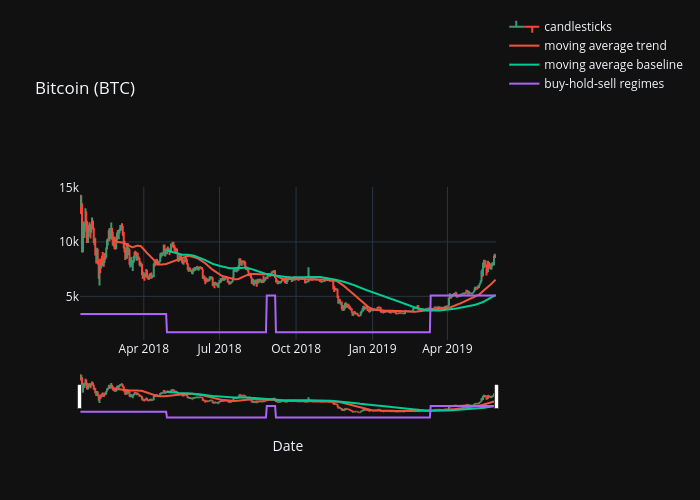
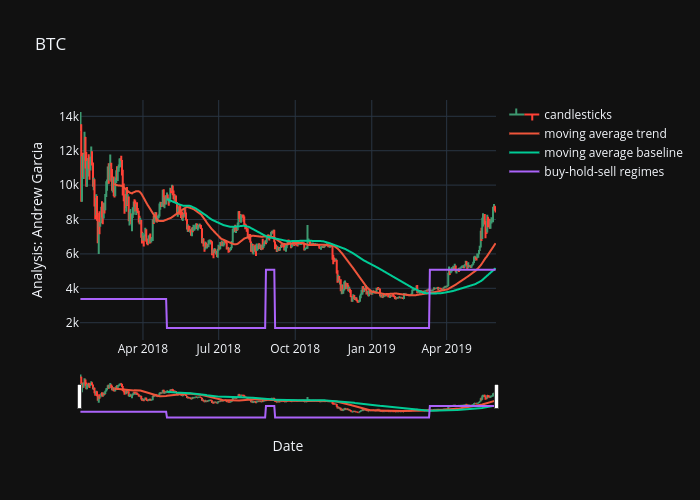
rme

diff --git a/plotly_plots.py b/plotly_plots.py
@@ -9,6 +9,7 @@ from plotly_cred import info
 
 import plotly
 plotly.tools.set_credentials_file(username=info()[0], api_key=info()[1])
+#import plotly_express as px
 import plotly.plotly as py
 import plotly.graph_objs as go
 from binancereader import *
@@ -52,7 +53,7 @@ def plyfin(hist_data,ticker_name,roll_mean1,roll_mean2,crypto):
     data = [trace,trace2,trace3,trace4]
     
     layout=go.Layout(title=ticker_name+'' if crypto == True \
-                     else ticker_name+'', xaxis={'title':'Date'}, yaxis={'title':''}) 
+                     else ticker_name+'', xaxis={'title':'Date'}, yaxis={'title':'Analysis: Andrew Garcia'} ) 
     
     fig = go.Figure(data=data, layout=layout)
     py.iplot(fig, filename=ticker_name+'' if crypto == True else ticker_name+' Stock')
@@ -70,6 +71,7 @@ def plyfin(hist_data,ticker_name,roll_mean1,roll_mean2,crypto):
     layout=go.Layout(title=ticker_name+' Coin Strategy Assessment' if crypto == True \
                      else ticker_name+' Stock Strategy Assessment', xaxis={'title':'Date'}, yaxis={'title':''})
     fig = go.Figure(data=data, layout=layout)
+#    fig.layout.template = 'plotly_dark'
     py.iplot(fig, filename=ticker_name+' Coin Strategy Assessment' if crypto == True \
                      else ticker_name+' Stock Strategy Assessment')
     
